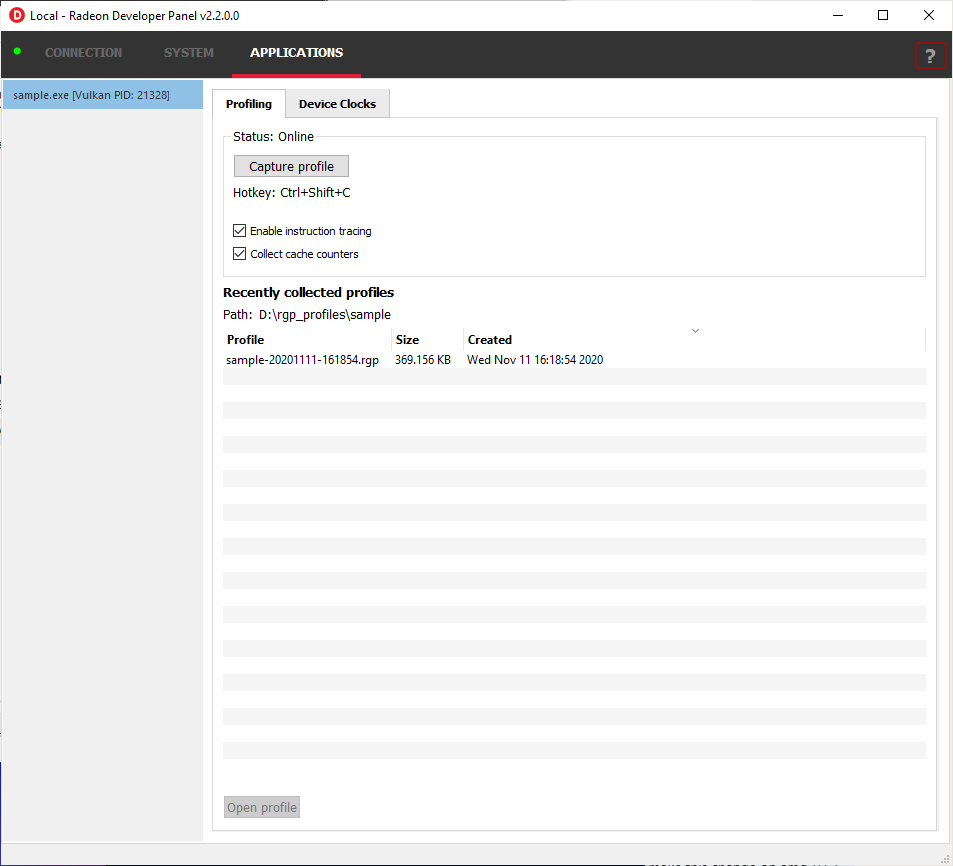
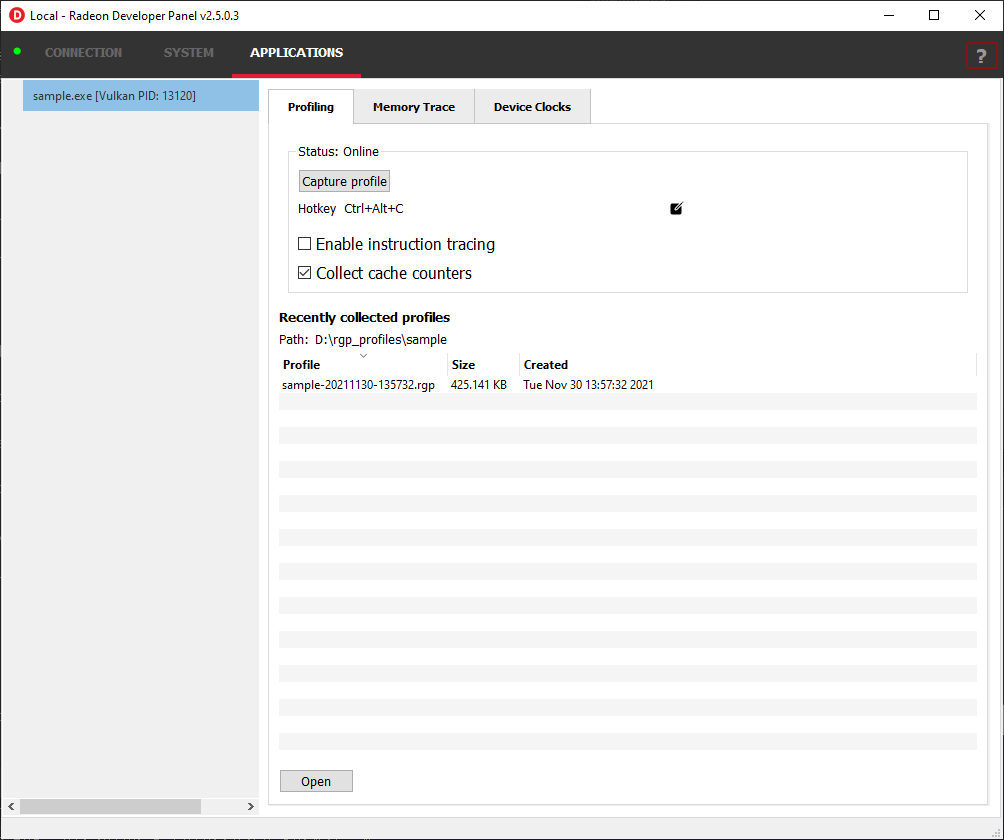
Update documentation for version 2.5 release (#14)

diff --git a/docs/source/conf.py b/docs/source/conf.py
@@ -46,7 +46,7 @@ master_doc = 'index'
 
 # General information about the project.
 project = u'Radeon Developer Panel'
-copyright = u'2017-2021, Advanced Micro Devices, Inc. All rights reserved.'
+copyright = u'2017-2022, Advanced Micro Devices, Inc. All rights reserved.'
 author = u'AMD Developer Tools'
 
 # The version info for the project you're documenting, acts as replacement for
@@ -54,9 +54,9 @@ author = u'AMD Developer Tools'
 # built documents.
 #
 # The short X.Y version.
-version = u'2.4.0'
+version = u'2.5.0'
 # The full version, including alpha/beta/rc tags.
-release = u'2.4.0'
+release = u'2.5.0'
 
 # The language for content autogenerated by Sphinx. Refer to documentation
 # for a list of supported languages.
@@ -76,28 +76,28 @@ pygments_style = 'sphinx'
 # If true, `todo` and `todoList` produce output, else they produce nothing.
 todo_include_todos = False
 
-
 # -- Options for HTML output ----------------------------------------------
 
 # The theme to use for HTML and HTML Help pages.  See the documentation for
 # a list of builtin themes.
 #
 
-#import sphinx_rtd_theme for retrieving theme
-#path from module
+# import sphinx_rtd_theme for retrieving theme
+# path from module
 import sphinx_rtd_theme
+
 html_theme_path = [sphinx_rtd_theme.get_html_theme_path()]
 html_theme = 'sphinx_rtd_theme'
-#html_theme = 'alabaster'
-#html_theme = 'classic'
-#html_theme = 'sphinxdoc'
-#html_theme = 'scrolls'
-#html_theme = 'agogo'
-#html_theme = 'traditional'
-#html_theme = 'nature'
-#html_theme = 'haiku'
-#html_theme = 'pyramid'
-#html_theme = 'bizstyle'
+# html_theme = 'alabaster'
+# html_theme = 'classic'
+# html_theme = 'sphinxdoc'
+# html_theme = 'scrolls'
+# html_theme = 'agogo'
+# html_theme = 'traditional'
+# html_theme = 'nature'
+# html_theme = 'haiku'
+# html_theme = 'pyramid'
+# html_theme = 'bizstyle'
 
 # Theme options are theme-specific and customize the look and feel of a theme
 # further.  For a list of options available for each theme, see the
@@ -110,6 +110,7 @@ html_theme = 'sphinx_rtd_theme'
 # so a file named "default.css" will overwrite the builtin "default.css".
 html_static_path = ['_static']
 
+
 # If a function setup(app) exists, Sphinx will call this function as a normal
 # extension during application startup. This method of using the overrides css
 # file works better with read the docs (more so than specifying it via the
@@ -117,15 +118,14 @@ html_static_path = ['_static']
 def setup(app):
     app.add_stylesheet('theme_overrides.css')
 
+
 html_show_sourcelink = False
 html_show_sphinx = False
-
 
 # -- Options for HTMLHelp output ------------------------------------------
 
 # Output file base name for HTML help builder.
 htmlhelp_basename = 'RadeonDeveloperPaneldoc'
-
 
 # -- Options for LaTeX output ---------------------------------------------
 
@@ -155,7 +155,6 @@ latex_documents = [
      u'AMD Developer Tools', 'manual'),
 ]
 
-
 # -- Options for manual page output ---------------------------------------
 
 # One entry per manual page. List of tuples
@@ -164,7 +163,6 @@ man_pages = [
     (master_doc, 'radeongpuprofiler', u'Radeon GPU Profiler Documentation',
      [author], 1)
 ]
-
 
 # -- Options for Texinfo output -------------------------------------------
 
@@ -176,8 +174,6 @@ texinfo_documents = [
      author, 'RadeonGPUProfiler', 'One line description of project.',
      'Miscellaneous'),
 ]
-
-
 
 # -- Options for Epub output ----------------------------------------------
 
@@ -198,5 +194,3 @@ epub_copyright = copyright
 
 # A list of files that should not be packed into the epub file.
 epub_exclude_files = ['search.html']
-
-

diff --git a/docs/source/index.rst b/docs/source/index.rst
@@ -71,6 +71,8 @@ Graphics APIs, RDNA and GCN hardware, and operating systems
 
 -  Windows® 10
 
+-  Windows® 11
+
 -  Ubuntu 18.04 LTS (Vulkan only)
 
 -  Ubuntu 20.04 LTS (Vulkan only)
@@ -98,6 +100,8 @@ Compute APIs, RDNA and GCN hardware, and operating systems
 
 -  Windows® 10
 
+-  Windows® 11
+
 Initial setup
 =============
 
@@ -106,7 +110,7 @@ Initial setup
       running. The panel needs to be configured in advance of starting your
       application.
 
-1) Start the **RadeonDeveloperPanel.exe** on your local system. The
+1) Start the **RadeonDeveloperPanel(.exe)** on your local system. The
    panel will startup up with the Connection tab already highlighted
    (see below).
 
@@ -139,11 +143,11 @@ green to indicate that the connection was successful.
 Remote connections
 ==================
 
-1) Start the **RadeonDeveloperService.exe** on the **remote** system (the machine
+1) Start the **RadeonDeveloperService(.exe)** on the **remote** system (the machine
 where the application is to be run). Make a note of the remote system's IP address
 (open a command prompt and type 'ipconfig').
 
-2) Start the **RadeonDeveloperPanel.exe** on the local system. On the **CONNECTION**
+2) Start the **RadeonDeveloperPanel(.exe)** on the local system. On the **CONNECTION**
 tab, enter the IP address of the **remote** system in the **Host name** and then
 click the  “Connect” button.
 
@@ -322,9 +326,11 @@ Capturing a profile can be achieved by the following:
 
    Clicking the **Capture profile** button from the Profiling UI will capture a frame and write the results to disk.
 
-* **Use the Ctrl-Shift-C hotkey**
+* **Use the Ctrl-Alt-C hotkey**
 
-   Using Ctrl-Shift-C hotkey on Windows or Linux® (see :ref:`HotkeyCapture`) will capture a frame and write the results to disk.
+   Using Ctrl-Alt-C default hotkey on Windows or Linux® will capture a frame and write the results to disk.
+
+   This can be configured **before launching an application** by clicking the edit button to the right of the hotkey label and then entering a series of key presses.
 
 Example output:
 
@@ -430,26 +436,6 @@ a profile.
 | "~/.local/share/RadeonDeveloperPanel/log.txt"
 
 
-.. _HotkeyCapture:
-
-Capturing using the keyboard on Linux
-=====================================
-
-Some applications capture focus or run fullscreen which makes capturing
-a profile difficult. The Radeon Developer Panel provides a hotkey to allow
-capturing using the keyboard. Presently, this is Shift-Ctrl-C. By default,
-on Linux, the hotkey is only available when starting the Panel with elevated
-privileges (i.e. sudo RadeoDeveloperPanel). To use the hotkey while running
-Radeon Developer Panel with standard privileges, run the enable_kbd_dev_read.sh
-script found in the /scripts directory of the Radeon Developer Panel package.
-This script adds read privileges to the current user for the keyboard device
-files. It must be run each time the PC is restarted. By default, the keyboard
-device files are found in the path ‘/dev/input/by-path’, and end with
-‘event-kbd’. If this path doesn’t exist or the keyboard device has a different
-name, copy the KeyboardDevice.txt file from the /docs directory to the root
-folder where these tools are located and edit this file so it contains the full
-path and file name of the keyboard device on your system.
-
 The Radeon Developer Service
 ============================
 
@@ -536,7 +522,7 @@ Windows Firewall Blocking Incoming Connections
    when running the panel for the very first time. The panel tries to
    start the service automatically for local connections and this can
    fail. If you see this message try manually starting the
-   “RadeonDeveloperService.exe” and connect again.
+   “RadeonDeveloperService(.exe)” and connect again.
 
 3) **Remote connection attempts timing out.** When running the Radeon
    Developer Service on Windows, the Windows Firewall may attempt to
@@ -555,7 +541,7 @@ a. If “Cancel” was previously clicked in the above step during the first
    run, the exception for RDS can still be enabled by allowing it within
    the Windows Control Panel firewall settings. Navigate to the “Allow
    an app or feature” section, and ensure that the checkbox next to the
-   RadeonDeveloperService.exe entry is checked:
+   RadeonDeveloperService(.exe) entry is checked:
 
 .. image:: media/Firewall_2.png
 
